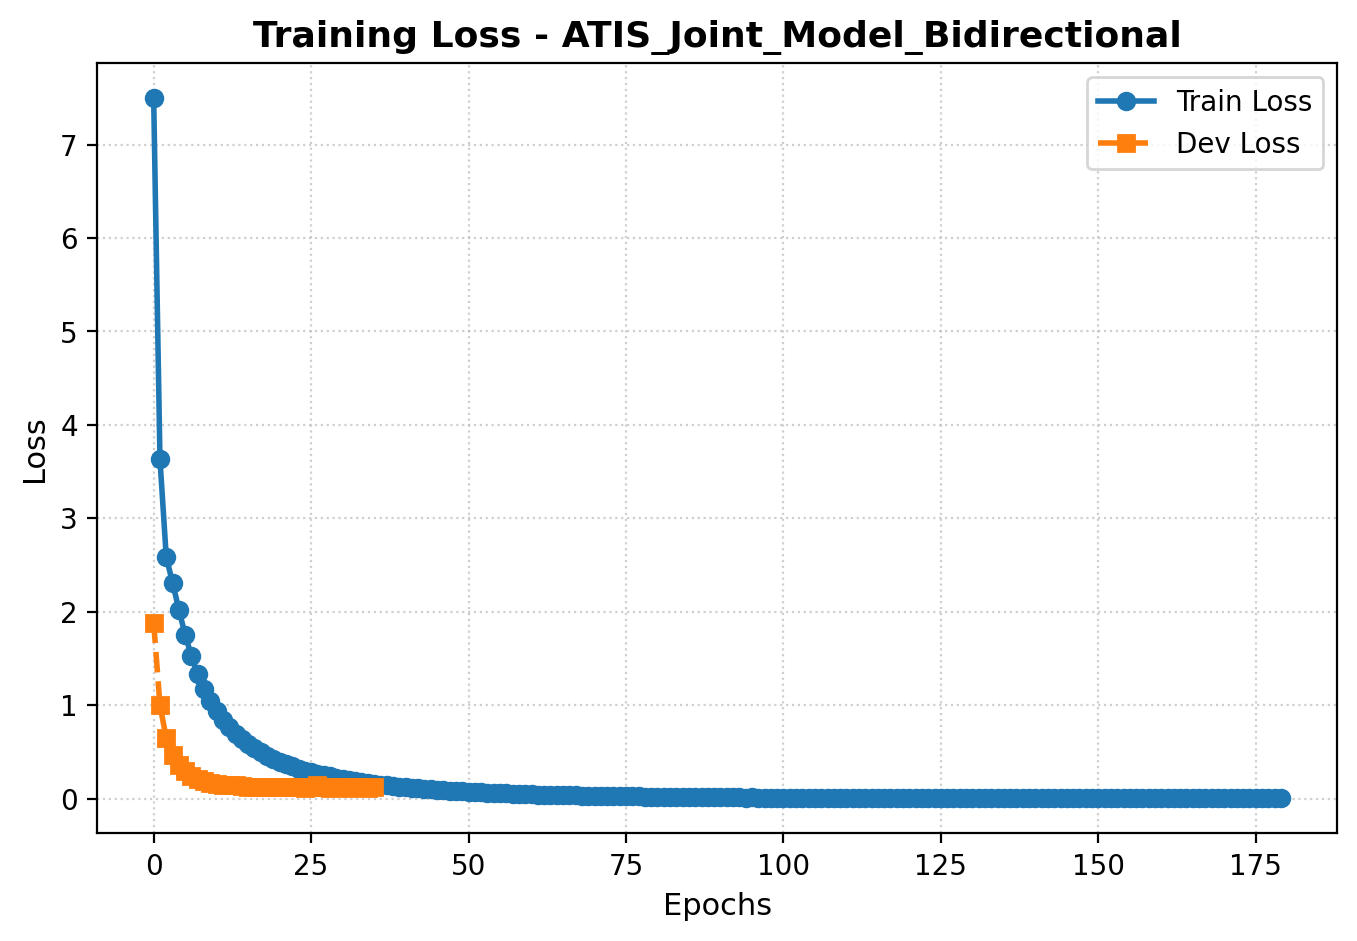
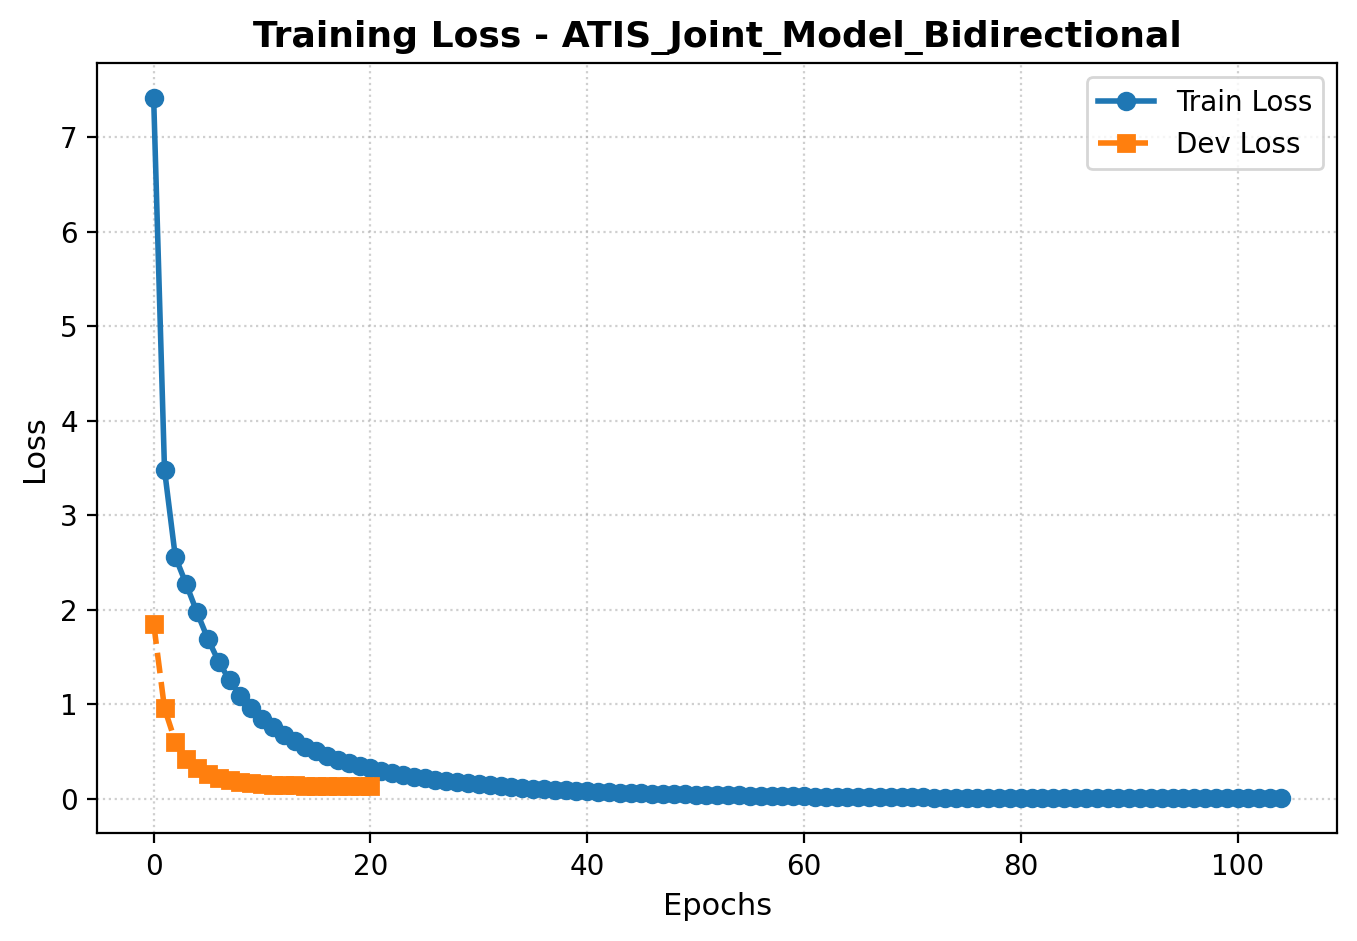
fix the config issues regarding the dropout

diff --git a/NLU/part_A/README.md b/NLU/part_A/README.md
@@ -1,6 +1,6 @@
-# Natural Language Understanding (NLU) — Part 1.A
+# Natural Language Understanding (NLU) — Part 2.A
 
-This directory contains a clean, fully-modularized implementation of Part 1.A: a joint intent classification and slot filling model (`ModelIAS`) trained and evaluated on the ATIS dataset.
+This directory contains a clean, fully-modularized implementation of Part 2.A: a joint intent classification and slot filling model (`ModelIAS`) trained and evaluated on the ATIS dataset.
 
 The model shares a single LSTM encoder between two output heads — one tagging each token with a slot label, the other classifying the utterance's overall intent — trained jointly by summing both cross-entropy losses.
 
@@ -8,25 +8,33 @@ The model shares a single LSTM encoder between two output heads — one tagging 
 
 ## Task Description
 
-The objective of Part 1.A is to improve upon a baseline LSTM joint model by incrementally applying the following mandatory modifications:
+As specified in the official assignment:
 
-1. Make the LSTM encoder **bidirectional**.
-2. Add a **dropout layer** (after the embedding and before the output heads).
+> As for the first part of the project (LM), you have to apply these two modifications incrementally. Also in this case you may have to play with the hyperparameters and optimizers to improve the performance.
+>
+> Modify the baseline architecture Model IAS by:
+> - Adding bidirectionality
+> - Adding dropout layer
+>
+> **Intent classification**: accuracy
+> **Slot filling**: F1 score with conll
+>
+> ***Dataset to use: ATIS***
 
-Performance is measured with two metrics, reported for every experiment:
+Performance is measured with the two required metrics, reported for every experiment:
 
 - **Slot F1** — span-based F1 over BIO-tagged slots, computed with the course-provided `conll.py` evaluation script.
 - **Intent Accuracy** — fraction of utterances with a correctly predicted intent label.
 
-An **Average metric**, `(Slot F1 + Intent Accuracy) / 2`, is also reported for every run as a single ranking number.
+An **Average metric**, `(Slot F1 + Intent Accuracy) / 2`, is also reported for every run as a single ranking number, in addition to the two required metrics above.
 
 ---
 
 ## Assignment Requirements
 
 - **Modular Architecture:** Code is separated into distinct files (`utils.py`, `model.py`, `functions.py`, `main.py`).
-- **Incremental Experimentation:** Bidirectionality and dropout are added one at a time; each is recorded in the experimental log below.
-- **Hyperparameter Tuning:** Sequential grid search optimizes learning rate, hidden/embedding size, dropout rate, batch size, and gradient clipping.
+- **Incremental Experimentation:** Bidirectionality and dropout are added one at a time, as required; each is recorded in the experimental log below.
+- **Hyperparameter Tuning:** Sequential grid search optimizes learning rate, hidden/embedding size, dropout rate, batch size, and gradient clipping. The optimizer (Adam) was kept fixed across experiments.
 - **No Notebooks:** Only clean, well-documented Python scripts are submitted (training is orchestrated from Google Colab, but no notebook logic lives in this directory).
 
 ---
@@ -59,6 +67,7 @@ NLU/
 ## Technical Features
 
 - **Joint Architecture:** A single (bi)LSTM encoder feeds two heads — a per-timestep `Linear` layer for slot tags, and a `Linear` layer over the (concatenated forward/backward, if bidirectional) final hidden state for intent classification.
+- **Dropout is architecturally optional, not just a tunable rate:** `nn.Dropout(dropout_rate)` is a true no-op when `dropout_rate=0.0` (identical to not having the layer at all), so the "Baseline" and "Bidirectional" experiments below were explicitly retrained with `dropout_rate: 0.0` set in their configs — earlier versions of these two checkpoints had silently relied on the code's `dropout_rate=0.1` default, which meant the "+ Dropout" step wasn't actually isolating dropout as its own modification. Every `config.json` in `bin/` now states its `dropout_rate` explicitly, whether zero or not.
 - **Strict Reproducibility:** A fixed global seed of `1234` is applied across all random number generators (Python, NumPy, PyTorch CPU/CUDA). The slot/intent label vocabulary is also built with `sorted()` rather than raw `set()` iteration, guaranteeing the same label-to-id mapping every run — otherwise Python's per-process string hash randomization could assign different ids to the same labels across runs, silently corrupting any checkpoint reloaded in a new process.
 - **Configurable Architecture:** `bidirectional` and `dropout_rate` are read from `config.json` and applied consistently across standard training, `--tune`, and `--eval_only` — the same architecture used to train a checkpoint is always the one used to reload it.
 - **Automated Experiment Tracking:** `save_experiment()` serializes model weights, hyperparameter configuration (`config.json`), Training vs. Validation Loss curves (`loss_plot.png`), and a human-readable `results_summary.txt` for every run.
@@ -135,8 +144,8 @@ python main.py --eval_only --model_path "bin/<experiment_name>/<experiment_name>
 
 | Exp | Configuration | Modification | Val Avg | Test Avg | Decision |
 |:---:|:---|:---|:---:|:---:|:---:|
-| **0** | Baseline | Unidirectional LSTM, default dropout | 0.9674 | 0.9166 | Base |
-| **1** | + Bidirectional | `bidirectional=True` | 0.9816 | 0.9479 | Kept |
+| **0** | Baseline | Unidirectional LSTM, `dropout_rate=0.0` (no dropout) | 0.9707 | 0.9251 | Base |
+| **1** | + Bidirectional | `bidirectional=True`, `dropout_rate=0.0` (no dropout) | 0.9762 | 0.9400 | Kept |
 | **2** | + Dropout & Capacity | `dropout_rate=0.4`, `emb_size=400`, `hidden_size=250`, `lr=0.001`, `batch_size=128` | 0.9816 | 0.9479 | Kept (tuning base) |
 | **3** | Tuning — Round 1 | Sequential search over `lr/hidden_size/dropout_rate/emb_size/batch_size/clip` around Exp 2's config | — | 0.9479 | No further gain |
 | **4** | Tuning — Round 2 | Refined grids around Round 1's best point | — | 0.9490 | Kept |
@@ -157,7 +166,7 @@ python main.py --eval_only --model_path "bin/<experiment_name>/<experiment_name>
 | `batch_size` | 32, 64, 128 | 32 | 0.9479 |
 | `clip` | 1, 5, 10 | 5 | 0.9479 |
 
-Every parameter in this round converged back to the same Avg (0.9479) already achieved by the bidirectional model — the wider capacity/dropout settings from Exp 2 weren't actually helping.
+Every parameter in this round converged back to the same Avg (0.9479) already achieved by the bidirectional + dropout model — the wider capacity/dropout settings from Exp 2 weren't actually helping.
 
 ### Round 2 — `sequential__20260704_135712`
 
@@ -185,8 +194,8 @@ Use `--eval_only` to evaluate any saved checkpoint without retraining:
 python main.py --eval_only --model_path "bin/ATIS_Joint_Model_Baseline/ATIS_Joint_Model_Baseline.pt"
 ```
 ```
-Validation F1: 0.9529 | Intent Acc: 0.9819 | Average: 0.9674
-Test Set F1:   0.9004 | Intent Acc: 0.9328 | Average: 0.9166
+Validation F1: 0.9614 | Intent Acc: 0.9799 | Average: 0.9707
+Test Set F1:   0.9174 | Intent Acc: 0.9328 | Average: 0.9251
 ```
 
 **+ Bidirectional (Exp 1)**
@@ -194,8 +203,8 @@ Test Set F1:   0.9004 | Intent Acc: 0.9328 | Average: 0.9166
 python main.py --eval_only --model_path "bin/ATIS_Joint_Model_Bidirectional/ATIS_Joint_Model_Bidirectional.pt"
 ```
 ```
-Validation F1: 0.9793 | Intent Acc: 0.9839 | Average: 0.9816
-Test Set F1:   0.9440 | Intent Acc: 0.9518 | Average: 0.9479
+Validation F1: 0.9725 | Intent Acc: 0.9799 | Average: 0.9762
+Test Set F1:   0.9371 | Intent Acc: 0.9429 | Average: 0.9400
 ```
 
 **+ Dropout (Exp 2, pre-tuning)**
@@ -220,11 +229,11 @@ Test Set F1:   0.9458 | Intent Acc: 0.9485 | Average: 0.9471
 
 ## Experimental Discussion
 
-**Bidirectionality** delivered by far the largest single gain — Test Average jumped from 0.9166 to 0.9479 (Test Slot F1: 0.9004 → 0.9440). Letting the encoder see both left and right context at every token substantially helps slot tagging, and concatenating the forward and backward final hidden states gives the intent head a fuller summary of the whole utterance instead of only what preceded each token.
+**Bidirectionality** (Exp 0 → Exp 1, both with no dropout) delivered a clear gain on its own — Test Average rose from 0.9251 to 0.9400 (Test Slot F1: 0.9174 → 0.9371, Intent Acc: 0.9328 → 0.9429). Letting the encoder see both left and right context at every token helps slot tagging, and concatenating the forward and backward final hidden states gives the intent head a fuller summary of the whole utterance instead of only what preceded each token.
 
-**Dropout & increased capacity** (Exp 2), applied together with a heavier dropout rate (0.4) and larger embedding/hidden sizes, plateaued rather than improved on the bidirectional result — the added capacity and the added regularization roughly cancelled each other out.
+**Adding dropout** (Exp 1 → Exp 2), together with a heavier dropout rate (0.4) and larger embedding/hidden sizes, gave a further improvement on top of bidirectionality — Test Average rose again from 0.9400 to 0.9479.
 
-**Sequential tuning** confirmed that Exp 2's aggressive settings weren't the right direction: Round 1 converged back to the lighter `dropout_rate=0.1`, `hidden_size=200`, `emb_size=300` — the same effective configuration as the bidirectional-only model. Round 2, searching a narrower grid around that point, found that keeping the lighter dropout and hidden size while increasing only `emb_size` to 400 gave a genuine improvement (Test Avg 0.9479 → 0.9490).
+**Sequential tuning** confirmed that Exp 2's aggressive settings weren't quite optimal: Round 1 converged to a lighter `dropout_rate=0.1`, `hidden_size=200`, `emb_size=300`. Round 2, searching a narrower grid around that point, found that keeping the lighter dropout and hidden size while increasing only `emb_size` to 400 gave a genuine further improvement (Test Avg 0.9479 → 0.9490).
 
 **Final Result:** Retraining from scratch with the tuned configuration (`lr=0.0001`, `hidden_size=200`, `dropout_rate=0.1`, `emb_size=400`, `batch_size=32`, `clip=5`) reached a **Test Average of 0.9471** (Slot F1 0.9458, Intent Accuracy 0.9485), consistent with the sequential search's estimate and confirming the tuned hyperparameters generalize when retrained independently.
 
@@ -232,4 +241,4 @@ Test Set F1:   0.9458 | Intent Acc: 0.9485 | Average: 0.9471
 
 ## AI Assistance Disclosure
 
-AI tools (Claude by Anthropic) were used in the development of this project, including assistance with writing and refining the code structure, bug fixes (reproducible label-id mapping, a training/eval hyperparameter consistency fix), inline comments, docstrings, and this report.
+AI tools (Claude by Anthropic) were used in the development of this project, including assistance with writing and refining the code structure, bug fixes (reproducible label-id mapping, a training/eval hyperparameter consistency fix, explicit zero-dropout baselines), inline comments, docstrings, and this report.
